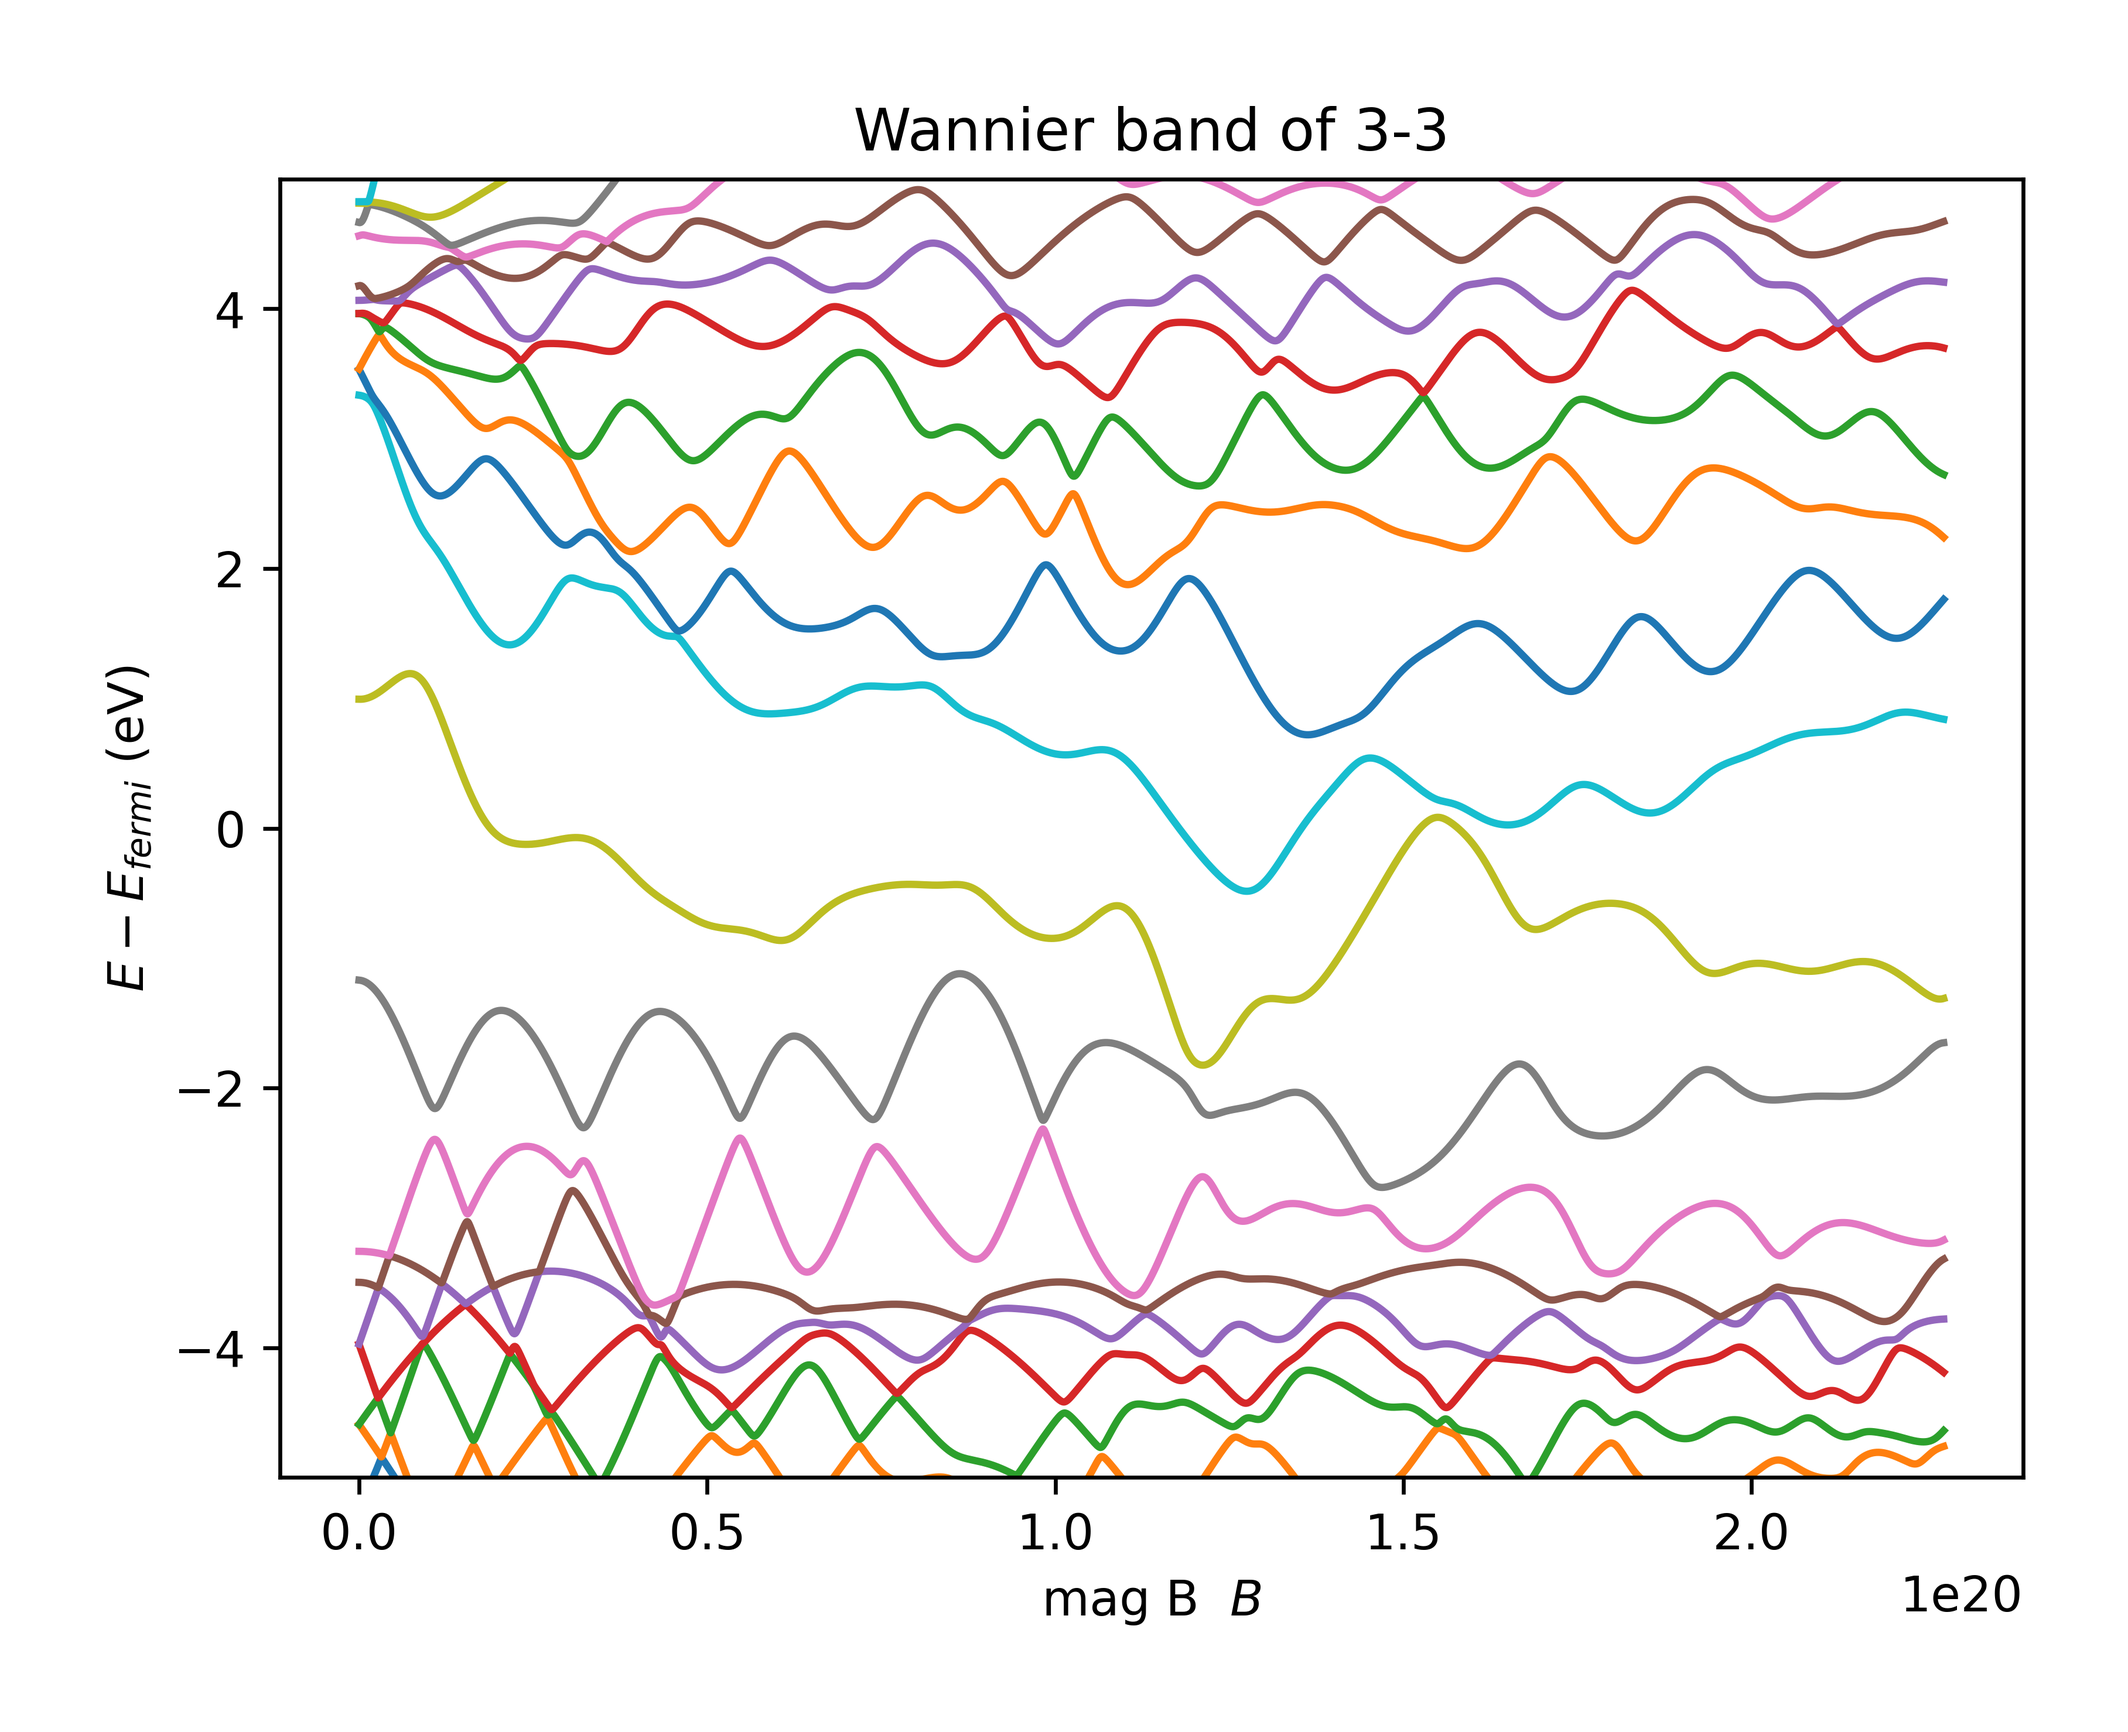
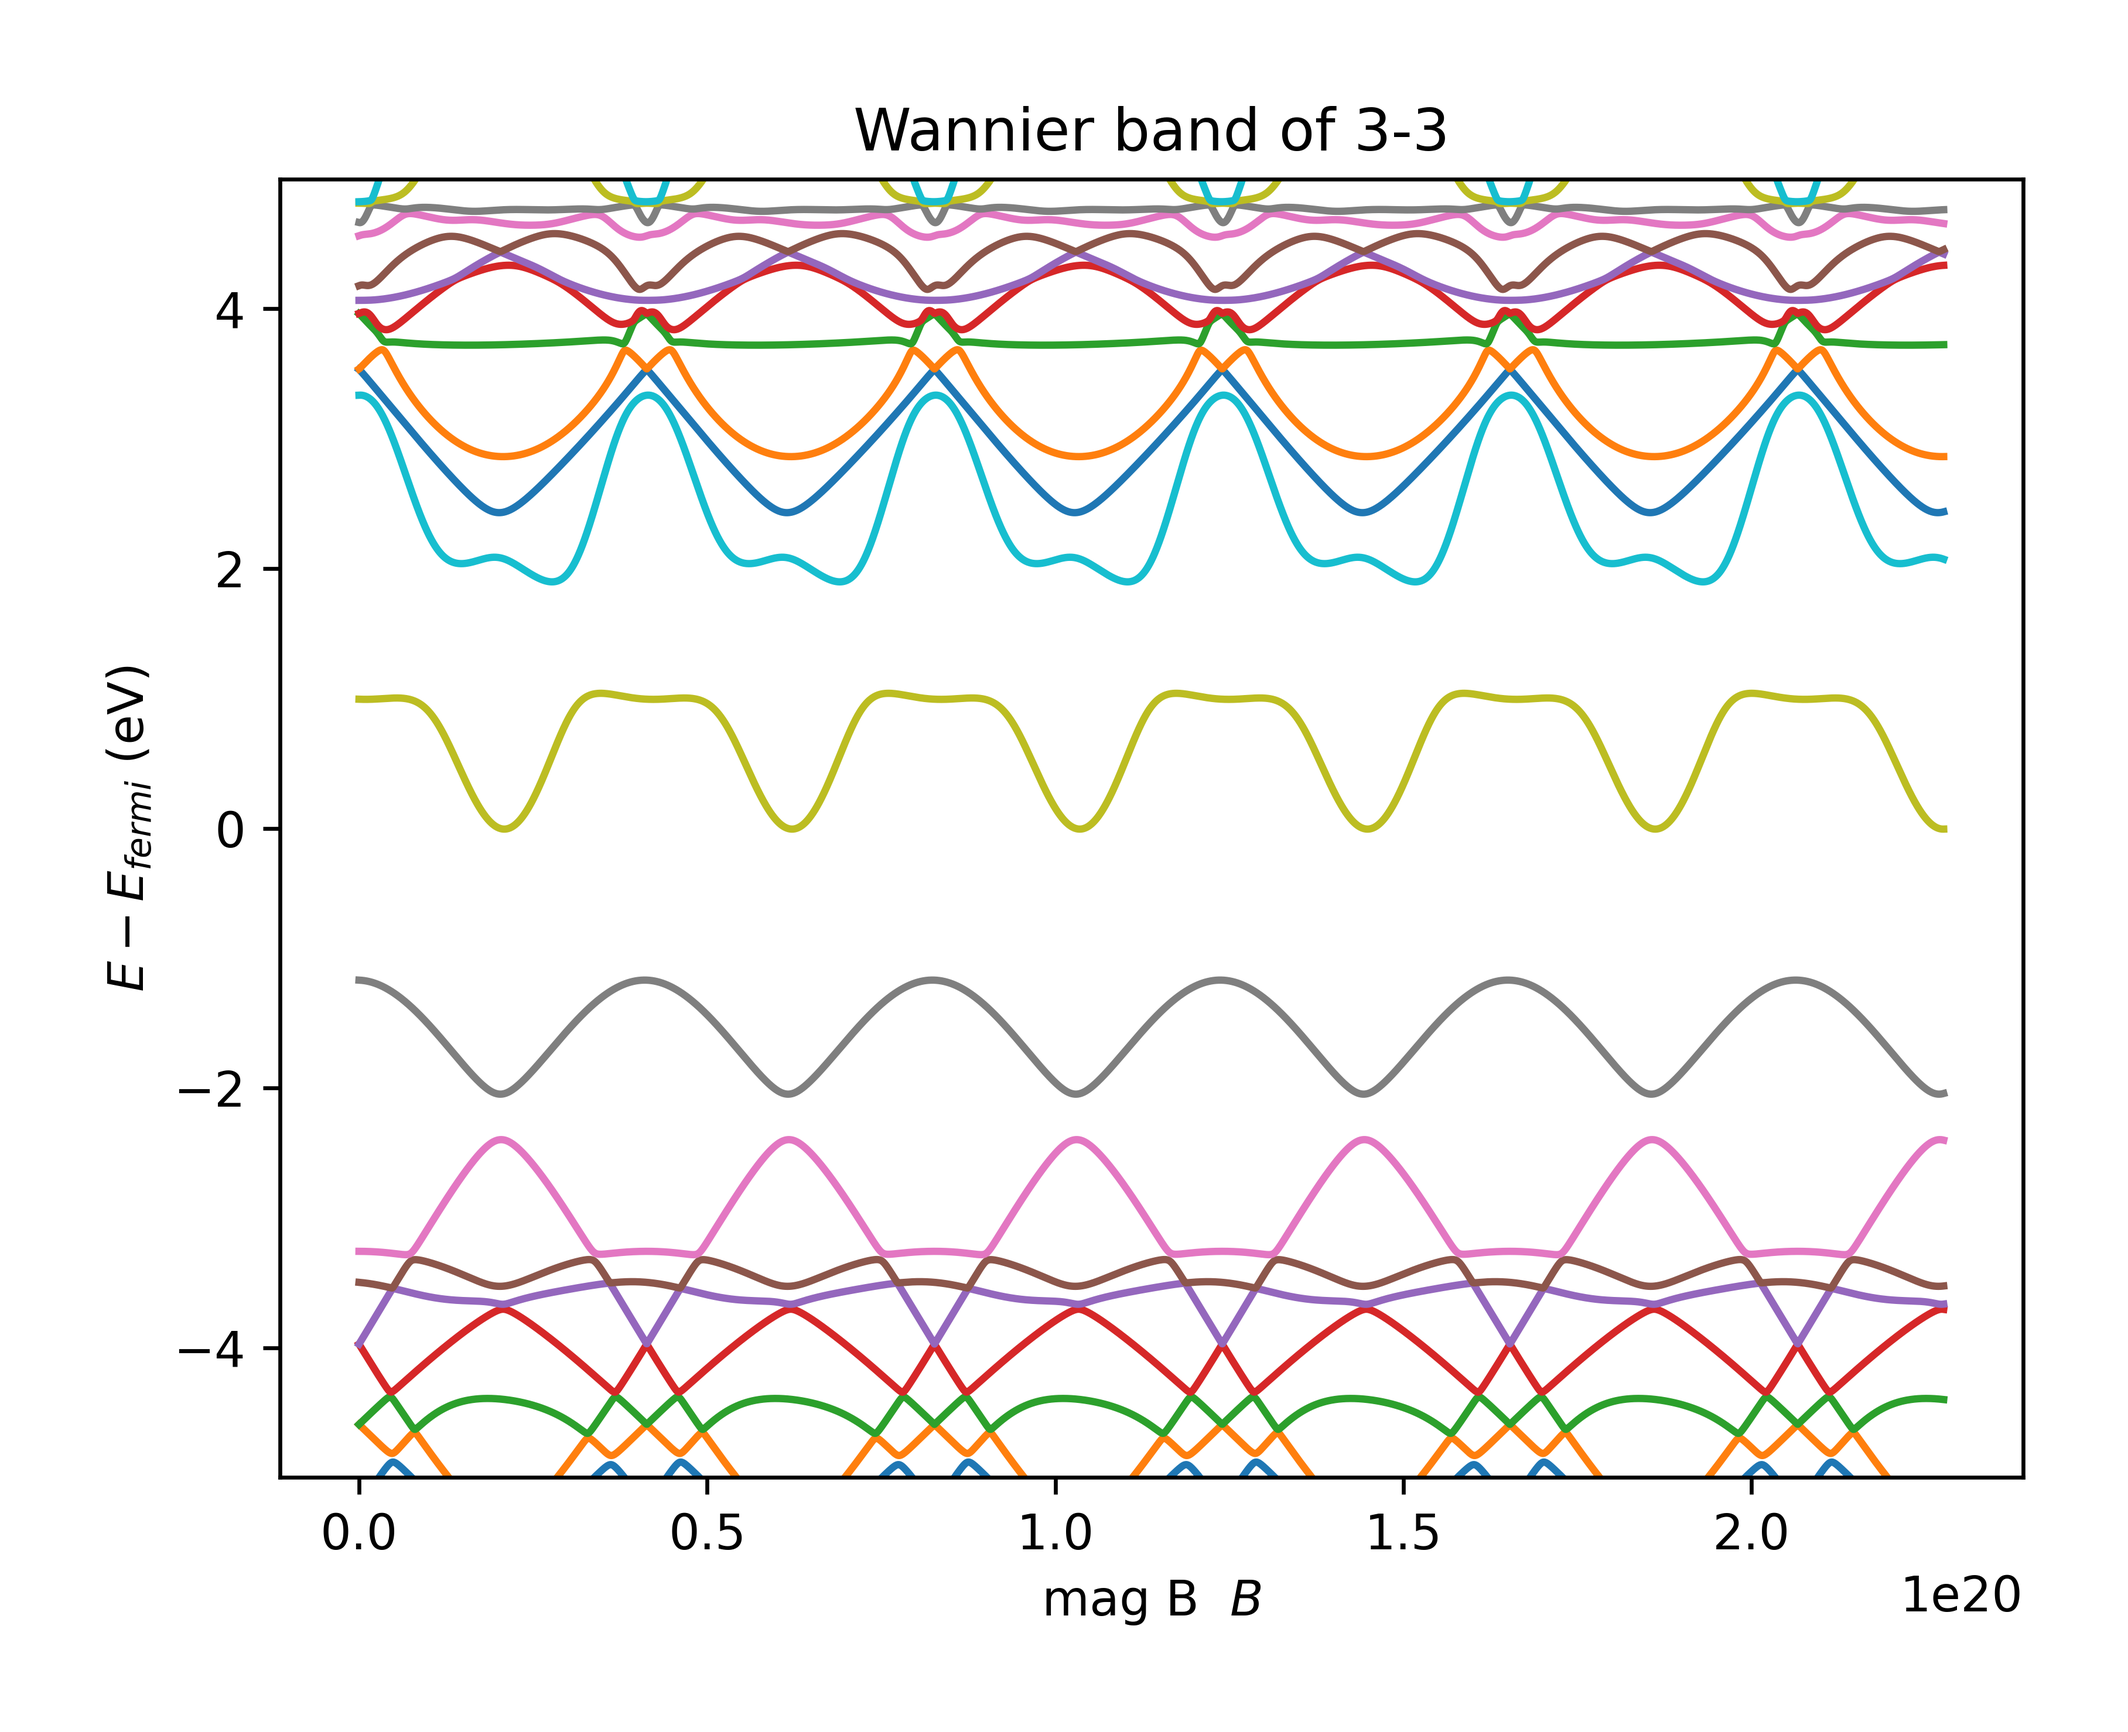
fix area bug, use fan and fixed radius now

diff --git a/example-3-3/CNT_fixk_new.py b/example-3-3/CNT_fixk_new.py
@@ -95,7 +95,7 @@ class WannierBand():
         R = np.zeros((self.n * self.kn, self.nrpts, 1, 1, 3), dtype=np.float32) 
         Degen = np.zeros((self.n * self.kn, self.nrpts, 1, 1), dtype=np.int8) # 简并程度
         wan_centre = np.zeros((self.n * self.kn, self.nrpts, self.num_wan, self.num_wan, 3), dtype=np.float32)
-        S = np.zeros((len(self.B), self.num_wan, self.num_wan), dtype=np.float32)
+        S = np.zeros((self.num_wan, self.num_wan), dtype=np.float32)
         # 读取the degeneracy of each Wigner-Seitz grid point
         print(self.nrpts)
 
@@ -124,21 +124,11 @@ class WannierBand():
                     R2[-1] = 0.0
                     sgn = np.sign(np.cross(R1, R2)[-1])
 
-                    R_new = (np.linalg.norm(R1) + np.linalg.norm(R2)) / 2
-                    theta1 = np.arccos(round(np.dot(R1, R2) / (np.linalg.norm(R1) * np.linalg.norm(R2)), 6))
-                    
-                    S[:,i, j] = sgn * theta * (R_new ** 2) / 2
-                    
-                    #print(np.dot(R1,R2)/(np.linalg.norm(R1)*np.linalg.norm(R2)))
-                    theta2 = np.arccos(np.dot(R1,R2)/(np.linalg.norm(R1)*np.linalg.norm(R2)))
-                    print(theta1,theta2)
-                    #temp_S = theta*(((np.linalg.norm(R1)+np.linalg.norm(R2))/2)**2)/2
-                    temp_S = np.linalg.norm(np.cross(R1, R2))
-                    #print(np.linalg.norm(R1),np.linalg.norm(R2))
-                    #print(sgn *temp_S,sgn*np.linalg.norm(np.cross(R1, R2)))
-                    S[:, i, j] =  sgn *temp_S*1e-20 # use meters as unit, adjust for the sign problem
+                    #R_avg = (np.linalg.norm(R1) + np.linalg.norm(R2)) / 2
+                    R_avg=2.2
+                    theta = np.arccos(round(np.dot(R1, R2) / (np.linalg.norm(R1) * np.linalg.norm(R2)), 8))
+                    S[i, j] = 1E-20 * sgn * theta * (R_avg ** 2) / 2 #use meters as unit, adjust for the sign problem
 
-        
         
         # x 用于判断wannier90_hr.dat中第几行开始有矩阵元
         if self.nrpts % 15 == 0:
@@ -160,7 +150,11 @@ class WannierBand():
         
         H = (np.exp(1j * (R[None, -1, ...] * self.k[None, -1, None, None, None, :]).sum(axis=-1)) * (np.exp(
             1j * (wan_centre[None, -1, ...] * self.k[None, -1, None, None, None, :]).sum(axis=-1)) * (np.exp(
-            1j * S[:, None, None, ...] * self.B[:, None, None, None, None])) * h[None, -1, ...]) / Degen[
+            1j * S[None, None, None, ...] * self.B[:, None, None, None, None])) * h[None, -1, ...]) / Degen[
+                 None, -1, ...]).sum(axis=2)
+        H = (np.exp(1j * (R[None, -1, ...] * self.k[None, -1, None, None, None, :]).sum(axis=-1)) * (np.exp(
+            1j * (wan_centre[None, -1, ...] * self.k[None, -1, None, None, None, :]).sum(axis=-1)) * (np.exp(
+            1j * S[None, None, None, ...] * self.B[:, None, None, None, None])) * h[None, -1, ...]) / Degen[
                  None, -1, ...]).sum(axis=2)
         H = H.sum(axis=1)
         self.H = H
@@ -183,7 +177,7 @@ class WannierBand():
         # ax.set_xticks(xticks)
         # ax.set_xticklabels(self.K_label)
         ax.set_title('Wannier band of {}'.format(self.name))
-        ax.set_xlabel("mag B  "r"$B$")
+        ax.set_xlabel("mag  "r"$B$")
         #ax.set_xlabel("Wave vector  "r"$\vec{k}$")
         ax.set_ylabel(r"$E - E_{fermi}$"' (eV)')
         # plt.xlim([0, self.k_length[self.n * self.kn - 1]])

diff --git a/example-5-5/CNT_fixk_new.py b/example-5-5/CNT_fixk_new.py
@@ -177,7 +177,7 @@ class WannierBand():
         # ax.set_xticks(xticks)
         # ax.set_xticklabels(self.K_label)
         ax.set_title('Wannier band of {}'.format(self.name))
-        ax.set_xlabel("mag  "r"$B$")
+        ax.set_xlabel("mag B  "r"$B$")
         #ax.set_xlabel("Wave vector  "r"$\vec{k}$")
         ax.set_ylabel(r"$E - E_{fermi}$"' (eV)')
         # plt.xlim([0, self.k_length[self.n * self.kn - 1]])
@@ -241,11 +241,11 @@ def main():
     # 每个高对称线撒点个数
     kn = 100
     # 从自洽步获取费米能，grep fermi OUTCAR
-    E_fermi = -3.97520335
+    E_fermi = -2.4239
     ymin = -5
     ymax = 5
     #kernel = WannierBand(lines, num_wan, nrpts, n, name, lv, K_point_path, K_label, kn, E_fermi, ymin, ymax)
-    kernel = WannierBand(lines, num_wan, nrpts, n, '4-0', lv, K_point_path, K_label, kn, E_fermi, ymin, ymax)
+    kernel = WannierBand(lines, num_wan, nrpts, n, '3-3', lv, K_point_path, K_label, kn, E_fermi, ymin, ymax)
     kernel.reciprocal()
     kernel.k_path()
     kernel.length()
